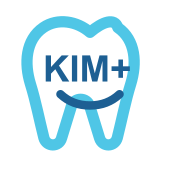
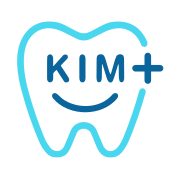
원본 벡터 로고 적용(헤더·바닥글·공유이미지·아이콘), 로고 심볼 픽토그램, 브랜드 색 로고에 맞춤

Changed region(s): [[0.0833, 0.0833, 0.9167, 0.8889]]

diff --git a/src/styles/global.css b/src/styles/global.css
@@ -13,10 +13,10 @@
 /* ── 색 ───────────────────────────────────────────────────────────────── */
 :root {
   /* 브랜드 컬러: 병원 색은 이 한 줄만 바꾼다. 화이트·하늘색 톤(원고). 흰 글자 버튼이 읽히는 진한 하늘색. */
-  --primary: hsl(204, 72%, 40%);
+  --primary: hsl(203, 88%, 33%); /* 로고 남색 #0a659c */
   --primary-foreground: hsl(0, 0%, 100%);
-  --primary-bright: hsl(198, 80%, 58%);
-  --primary-surface: hsl(from var(--primary) h 75% 95%);
+  --primary-bright: hsl(191, 84%, 61%); /* 로고 하늘색 #49d7ef (장식·큰 글자용) */
+  --primary-surface: hsl(191, 80%, 95%);
   --ring: hsl(from var(--primary) h 80% 55%);
 
   --secondary: hsl(214, 45%, 20%);
@@ -172,7 +172,7 @@
   html {
     font-size: 62.5%;
     scroll-behavior: smooth;
-    scroll-padding-top: 8rem; /* 앵커로 이동할 때 상단 고정 메뉴에 가리지 않게 */
+    scroll-padding-top: 11rem; /* 앵커로 이동할 때 상단 고정 메뉴에 가리지 않게 */
     -webkit-text-size-adjust: 100%;
   }
   body {
